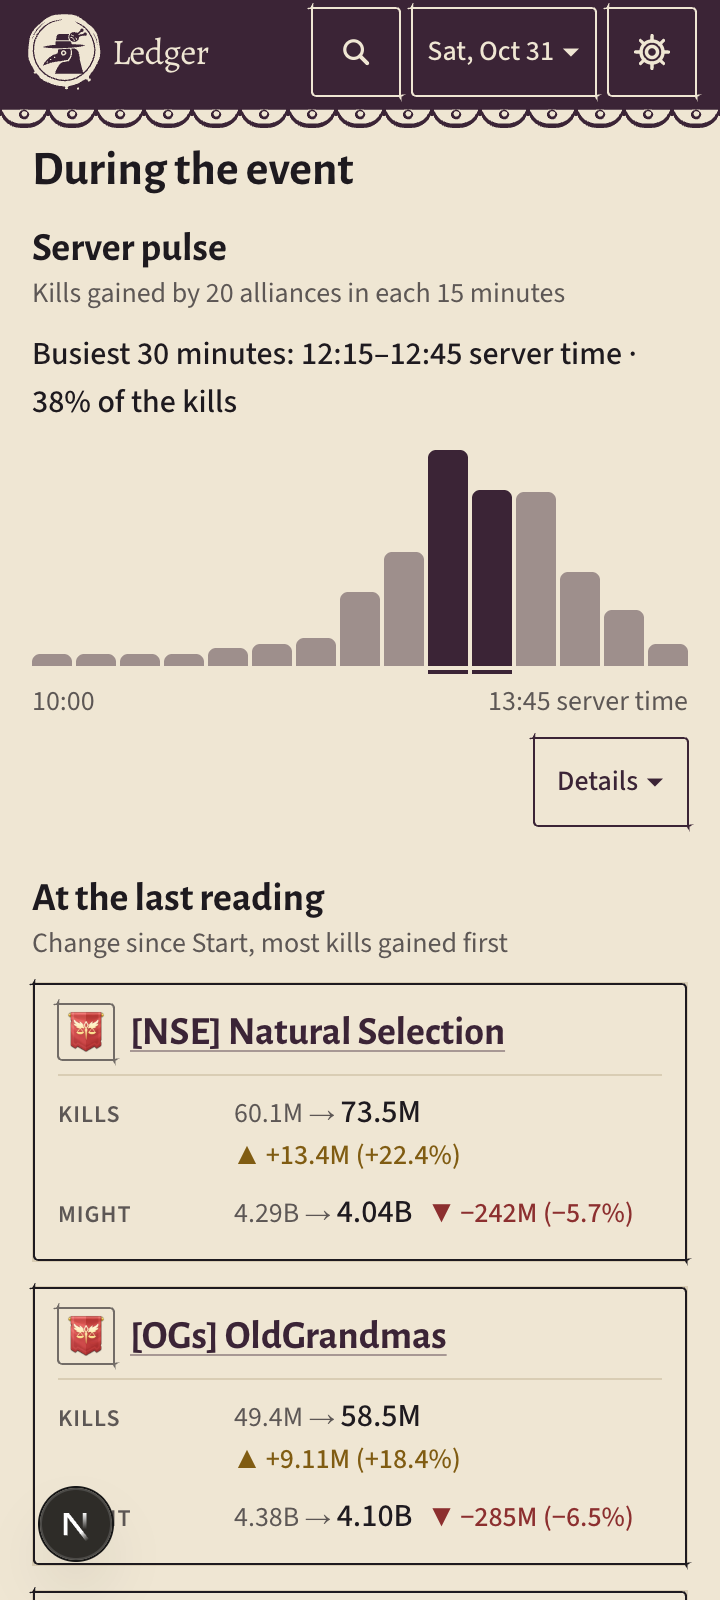
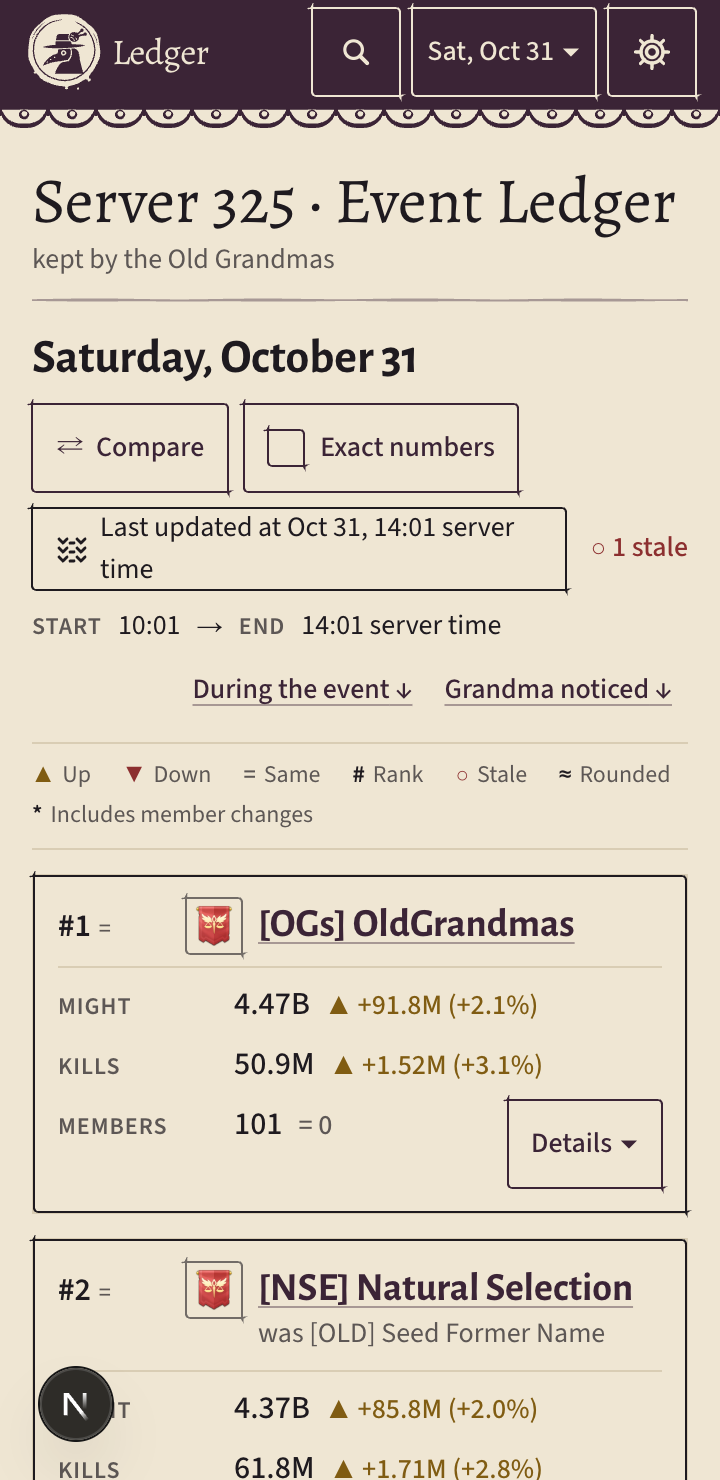
docs(handoff): 08zzzze UX review fixes and new screenshots

Changed region(s): [[0.0306, 0.4662, 0.9778, 1.0], [0.0, 0.0, 1.0, 0.5284], [0.7028, 0.1243, 0.9472, 0.1865]]

diff --git a/docs/handoff/08zzzze-live-event.md b/docs/handoff/08zzzze-live-event.md
@@ -86,6 +86,28 @@ Plan changes needed: none in this PR. In the charts sketch of `08zzzza`'s Next, 
 - The window build must keep `nextReading` (`lib/live.ts`) and `eventProgress` working: they read the End's existence from `snapshots.phase = 'after'` and the Start from `phase = 'before'`; with windows, both move to the window's first and last samples.
 </adjustments>
 
+## UX review fixes (2026-11-16)
+
+Branch `fix/08zzzze-live-ux`, on top of `session/08zzzze-live-event` with `session/08zzzza-event-samples` (035de41) and `origin/dev` (#318) merged. Both merges left a duplicate `shareText` in `app/_ui/format.ts` and duplicated tables in 12 `lib/i18n/glossary/*.md`; both were fixed.
+
+- B1: `busiestSpan(slots, total)` divides by the kills gained since Start (sum of the standings' changes, `EventProgress.killsTotal`), not by the sum of the compared intervals. The share is capped at 100%. One test in `lib/live.test.ts` with a missing interval. Checked on a local database with a missing reading: 30.25 M of 72.63 M = 42%, as shown.
+- S1: while live there is no "Last updated" chip (`StatusChips` `live`); the capture window shows `END after 16:30 server time` instead of `END —` (`CaptureWindow` `endDue`, key `status.endAfter`). After the End the chip is back. The "Start 12:31 · End not yet" fallback was not built: the End's due time is always known.
+- S2: the strip shows from the Start: "Live · Start 15:37 · first reading 15:45 server time" and "No readings yet" (keys `ledger.liveFirst`, `ledger.liveNoReadings`). `eventProgress` returns progress for a live event with no sample (`latestAt` null, `startAt` added); the pulse and standings render only when `readings > 0`. `LiveRefresh` still arms at the next slot + 60 s (same `nextReading`).
+- S3: the busiest line needs 4 compared intervals (`BUSIEST_MIN_INTERVALS` in `lib/live.ts`, applied in `lib/queries/live.ts`, so the underline also waits). Before that, while live: "Kills so far: <compact total>".
+- S4: ordinary bars `bg-plum/60`: measured 3.66:1 light, 3.01:1 dark. Hairline `bg-ink/50`, not the `/45` asked for: `/45` measures 2.75:1 light; `/50` measures 3.15:1 light and 4.30:1 dark. Busiest pair stays full plum (11.35 and 6.21). Dark ordinary bars pass by 0.01.
+- S5: after the End the standings help reads "Change since Start at the {time} reading. The ledger above uses the End at {end}." (key `ledger.liveDone`). When the End never ran (window passed) the standings keep the live help.
+- S6: "During the event ↓" jump link beside "Grandma noticed ↓" (same classes, 44 px high), target `#live-during`; shown only when the finished event has a reading. Checked at 360: the link is 44 px high and the jump lands on the section.
+- S7: `overdueSlot` in `lib/live.ts`: the current slot, when after the latest sample (or the Start), before the End's slot and more than 3 minutes old. The strip appends "(reading due 16:15)" (key `ledger.liveOverdue`). Checked with a local database 20 minutes behind: "updated 16:00 · next 16:30 server time (reading due 16:15)".
+- N1: live standings show the top 5 and the viewer's own alliance with "Show all (20)": new client component `app/_ui/LiveStandings.tsx` reuses `visibleEntries` and `ShowAllButton`. `StatRow` got `mine`, so the viewer's row is marked even when it renders after `MyAllianceJump` ran.
+- N2: each standings card starts with its rank "#1" (position in the full standings; "#—" for an alliance with no change).
+- N3: under the busiest line, while live: "Last 15 min: 1.64M (peak 16.6M)" (key `ledger.liveLast`; the peak is the largest single interval).
+- N4: the first interval starts at the Start's own time (finished time, else started time), not the scheduled one: the axis reads 12:31, as the Start does.
+- N5: stub `h-2` (bars and legend), legend `text-sm`.
+- Takeaway: the strip has "Kills so far: NSE +13.4M · OGs +9.11M · TmS +8.24M" (top 3 by kills gained, tag and compact signed gain; key `ledger.liveKillsSoFar`, shared with S3's total). Compact figures use 3 significant digits, so the examples read `+9.11M` and not `+9.1M`. At 360 it wraps to two lines.
+- Copy: 7 new keys (`ledger.liveFirst`, `liveNoReadings`, `liveOverdue`, `liveKillsSoFar`, `liveLast`, `liveDone`, `status.endAfter`), translated to 17 languages with the translate-copy skill and stamped. `lib/copy.ts` was at the 300-line limit; `liveDone` is short enough to stay on one line.
+- Verified: `pnpm check` green (335 tests passed, 1 skipped; the i18n gate says 17 languages up to date). Local database from the seed on a scratch Postgres cluster (`lt_seed`, scratch copy `lt_run`; the `lap` database was not touched). States early (Start only), few (2 readings), live, live with a gap (sample 10 copied from 9, sample 14 missing), finished, and live with a late reading. Chromium and WebKit, light and dark, at 360 and 768: no horizontal overflow in any of the 40 captures. Screenshots: `docs/screenshots/08zzzze-live-360.png`, `08zzzze-early-360.png`, `08zzzze-finished-360.png`, `08zzzze-live-768.png`, `08zzzze-live-360-webkit-dark.png` (replaces the 390 one).
+- Not done / follow-ups: the strip and the capture window both show the Start time while live (S1 asked for both). An event whose End never ran after the window shows the finished layout with "Last updated" and "During the event"; not changed.
+
 🤖 Generated with [Claude Code](https://claude.com/claude-code)
 
 https://github.com/daniro-san/LAPTracker/pull/319
